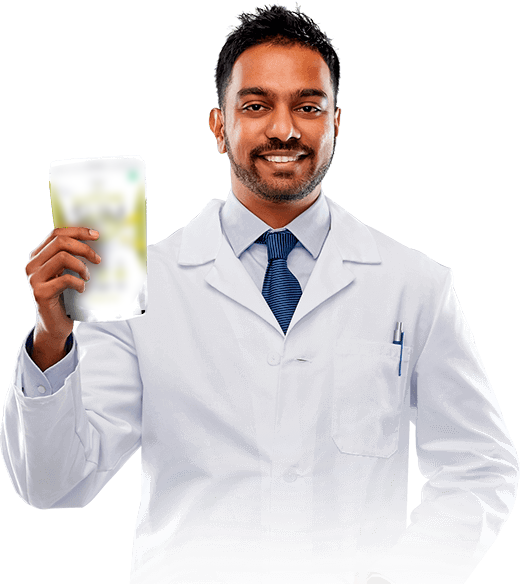
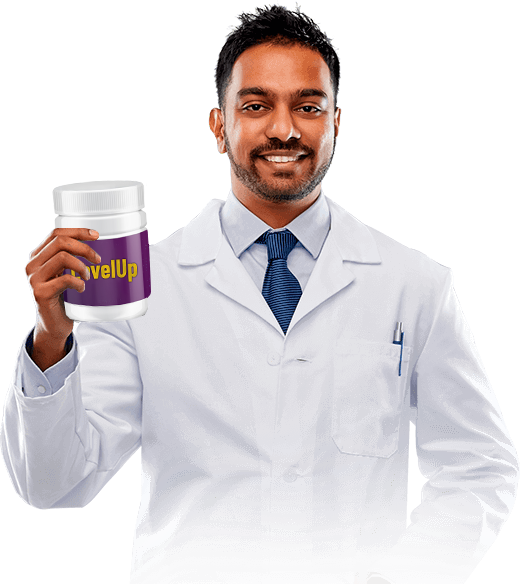
Add files via upload

Changed region(s): [[0.0923, 0.2774, 0.3077, 0.5548]]

diff --git a/index.html b/index.html
@@ -6,14 +6,19 @@
     <meta name="description" content="Препарат для повышения потенции LevelUp является универсальным средством с доказанной эффективностью. Успейте заказать по выгодной цене! Мы на связи 24/7.">
     <!-- CSS -->
     <link rel="stylesheet" href="https://use.fontawesome.com/releases/v5.15.4/css/all.css" integrity="sha384-DyZ88mC6Up2uqS4h/KRgHuoeGwBcD4Ng9SiP4dIRy0EXTlnuz47vAwmeGwVChigm" crossorigin="anonymous">
+    <link rel="stylesheet" href="https://unpkg.com/swiper@7/swiper-bundle.min.css"/>
     <link rel="stylesheet" type="text/css" href="css/style.css">
     <link rel="stylesheet" type="text/css" href="css/media.css">
     <title>LevelUp | Эффективное средство для повышения потенции</title>
 </head>
+
 <body>
+
 <header></header>
+
 <section class="promo">
     <h1>LevelUp – Эффективное средство против эректильной дисфункции</h1>
+
     <div class="promo-features">
         <ul>
             <li>Способствует укреплению мужской силы</li>
@@ -22,47 +27,116 @@
         </ul>
         <a href="#">Заказать</a>
     </div>
+
     <div class="promo-image">
         <img src="img/prod.png" alt="LevelUp - Средство для потенции">
     </div>
 </section>
+
 <section class="product-features">
     <h2>Состав таблеток для потенции LevelUp</h2>
+
     <div class="product-image">
+
         <img src="img/prod.png" alt="Преимущества выбора средства для повышения потенции LevelUp">
+        <a href="#">Заказать</a>
+
         <div class="features-left">
             <div>
                 <img src="img/viagra.png" alt="Силденафил">
                 <p>Силденафил</p>
             </div>
+
             <div>
                 <img src="img/enzyme.png" alt="Целлюлоза микрокристаллическая">
                 <p>Целлюлоза микрокристаллическая</p>
             </div>
+
             <div>
                 <img src="img/calcium.png" alt="Кальция гидрофосфат">
                 <p>Кальция гидрофосфат</p>
             </div>
         </div>
+
         <div class="features-right">
             <div>
                 <img src="img/sodium.png" alt="Натрия кроскармеллоза">
                 <p>Натрия кроскармеллоза</p>
             </div>
+
             <div>
                 <img src="img/magnesium.png" alt="Магния стеарат">
                 <p>Магния стеарат</p>
             </div>
+
             <div>
                 <img src="img/ginseng.png" alt="Женьшень">
                 <p>Женьшень</p>
             </div>
         </div>
+
+    </div>
+</section>
+
+<section class="reviews">
+    <h2>Отзывы клиентов</h2>
+
+    <div class="swiper reviewSwiper">
+        <div class="swiper-wrapper">
+            <div class="swiper-slide">
+                <div class="review-image">
+                    <img src="img/red-hat.jpg" alt="Фото клиента">
+                </div> 
+                <h3>Алекс В.</h3>
+                <p>Препарат эффективный. Живу в СПб, доставили в течение пары дней. Сотрудники всегда на связи. Спасибо, обязательно обращусь к вам снова</p>
+            </div>
+
+            <div class="swiper-slide">
+                <div class="review-image">
+                    <img src="img/handsome.jpg" alt="Фото клиента">
+                </div> 
+                <h3>Сергей С.</h3>
+                <p>Очень приятная цена. Быстрая доставка. Рекомендую!</p>
+            </div>
+
+            <div class="swiper-slide">
+                <div class="review-image">
+                    <img src="img/no-problem.jpg" alt="Фото клиента">
+                </div> 
+                <h3>Виталий С.</h3>
+                <p>Средство работает. Эффект длится достаточно долго. Никаких побочек не обнаружено.</p>
+            </div>
+        </div>
+
+        
+    <div class="swiper-button-prev"></div>
+    <div class="swiper-button-next"></div>
+
+    <div class="swiper-pagination"></div>
+
+    </div>
+
+</section>
+
+<section class="second-promo">
+    <div class="firstPromoBlock">
+        <div>
+            <img src="img/doctor.png" alt="Врач высшей категории">
+        </div>
+        <div>
+            <p>Средство для потенции LevelUp, разработанное специалистами компании MediCo, доказало свою эффективность и широко используется в борьбе против эректильной дисфункции.
+            Также препарат назначается в качестве превентивного средства, если существует риск развития рака предстательной железы, пениса и яичек.</p>
+            <a href="#">Заказать</a>
+            <span>Существуют противопоказания, необходима консультация специалиста.</span>
+        </div>
     </div>
 </section>
 
 <footer></footer>
+
 <script src="https://code.jquery.com/jquery-3.6.0.min.js" integrity="sha256-/xUj+3OJU5yExlq6GSYGSHk7tPXikynS7ogEvDej/m4=" crossorigin="anonymous"></script>
+<script src="https://unpkg.com/swiper@7/swiper-bundle.min.js"></script>
 <script src="js/main.js"></script>
+
 </body>
 </html>

diff --git a/js/main.js b/js/main.js
@@ -1,0 +1,18 @@
+var swiper = new Swiper(".reviewSwiper", {
+    slidesPerView: 3,
+    spaceBetween: 30,
+    speed: 600,
+    loop: true,
+    autoplay: {
+        delay: 4000,
+        disableOnInteraction: false,
+      },
+    pagination: {
+      el: ".swiper-pagination",
+      clickable: true,
+    },
+    navigation: {
+        nextEl: ".swiper-button-next",
+        prevEl: ".swiper-button-prev",
+      },
+  });
